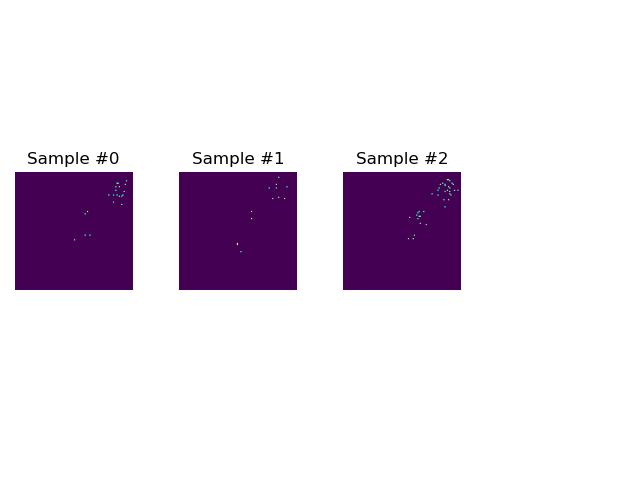
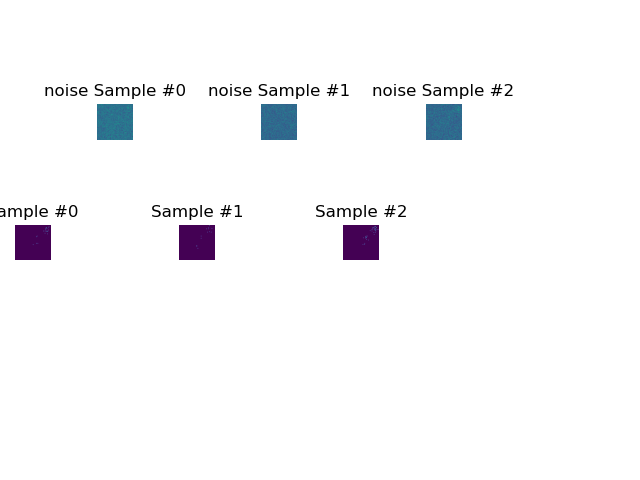
using filter

Changed region(s): [[0.0, 0.1562, 0.5312, 0.625], [0.5, 0.1562, 0.8125, 0.625]]

diff --git a/dataloader.py b/dataloader.py
@@ -1,4 +1,4 @@
-import os
+import os,sys
 from sklearn.utils import shuffle
 import torch
 from torch.utils.data import Dataset, DataLoader
@@ -15,10 +15,12 @@ for i in range(1,20):
     # the second index has to be 3 to show be some image
 all_data  = np.concatenate(imgs)
 
+print("finish loading")
+
 class HSQC_Dataset(Dataset):
     """Face Landmarks dataset."""
 
-    def __init__(self, all_data, transform=None):
+    def __init__(self, all_data, config=None):
         """
         Args:
             csv_file (string): Path to the csv file with annotations.
@@ -27,63 +29,69 @@ class HSQC_Dataset(Dataset):
                 on a sample.
         """
         self.all_data = all_data
-        self.transform = transform
+        self.config = config
 
     def __len__(self):
         return len(self.all_data)
 
     def __getitem__(self, idx):
-        sample = self.all_data[idx]
+        raw_sample = self.all_data[idx]
+        if self.config:
+            noise_factor = self.config["dataset"]["noise_factor"]
+        else :
+            noise_factor = 0.4
+        noisy_sample = raw_sample + noise_factor * np.random.normal(loc=0.0, scale=1.0, size=raw_sample.shape)
+        noisy_sample = np.clip(noisy_sample, 0., 1.)
 
-        if self.transform!=None:
-            sample = self.transform(sample)
-
-        return sample
+        return raw_sample,noisy_sample
 
 
 def get_datasets(config):
     np.random.shuffle(all_data)
-    first = int((all_data)*0.8)
-    second = int((all_data)*0.9)
+    first = int(len(all_data)*0.8)
+    second = int(len(all_data)*0.9)
 
     train = all_data[:first]
     val = all_data[first:second]
-    test = all[second:]
+    test = all_data[second:]
 
     shuffle=config["dataset"]['shuffle']
     batch = config["dataset"]['batch_size']
-    train_loader = DataLoader(train, batch_size=batch, shuffle=shuffle, num_workers=4*os.cpu_count)
-    val_loader = DataLoader(val, batch_size=batch, shuffle=shuffle, num_workers=4*os.cpu_count)
-    test_loader = DataLoader(test, batch_size=batch, shuffle=shuffle, num_workers=4*os.cpu_count)
+    train_loader = DataLoader(HSQC_Dataset(train,config), batch_size=batch, shuffle=shuffle, num_workers=os.cpu_count())
+    val_loader = DataLoader(HSQC_Dataset(val,config), batch_size=batch, shuffle=shuffle, num_workers=os.cpu_count())
+    test_loader = DataLoader(HSQC_Dataset(test,config), batch_size=batch, shuffle=shuffle, num_workers=os.cpu_count())
 
     return train_loader, val_loader , test_loader
 
 
-dataset = HSQC_Dataset(all_data)
 
-dataloader = DataLoader(dataset, batch_size=4, shuffle=False, num_workers=0)
-
-for i_batch, sample_batched in enumerate(dataloader):
-    if i_batch == 3:
-        break
-    print("batch is",i_batch)
-    print(sample_batched.shape)
 
 
 #### used to show some sample image
+# dataset = HSQC_Dataset(all_data,)
+# dataloader = DataLoader(dataset, batch_size=4, shuffle=False, num_workers=0)
 # fig = plt.figure()
 # for i in range(len(dataset)):
-#     sample = dataset[i]
+#     sample = dataset[i][0]
+#     noise_sample = dataset[i][1]
+#     # print(i, sample.shape)
 
-#     print(i, sample.shape)
-
-#     ax = plt.subplot(1, 4, i + 1)
+#     ax = plt.subplot(1, 4, 2*i + 1)
 #     plt.tight_layout()
 #     ax.set_title('Sample #{}'.format(i))
 #     ax.axis('off')
 #     plt.imshow(sample)
+
+#     ax = plt.subplot(1, 4, 2*i +2 )
+#     plt.tight_layout()
+#     ax.set_title('noise Sample #{}'.format(i))
+#     ax.axis('off')
+#     plt.imshow(noise_sample)
 #     plt.savefig("useless/{}.png".format(str(i)))
 
-#     if i == 3:
+#     if i == 1:
 #         plt.show()
 #         break
+
+# np.set_printoptions(threshold=sys.maxsize)
+# print(dataset[i][1])

diff --git a/experiment.py b/experiment.py
@@ -1,40 +1,52 @@
 import json
 import os
 from dataloader import get_datasets
+from model_factory import get_model
+from weakref import ref
+import matplotlib.pyplot as plt
+import numpy as np
+import torch, copy
+from tqdm import tqdm
+from datetime import datetime
+import shutil
 
 ROOT_STATS_DIR = "./experiment_data"
 class Experiment(object):
     def __init__(self, name):
-        f = open('./hyperparameters/', name + '.json')
-        config_data = data = json.load(f)
-        
-        if config_data is None:
+        f = open('./hyperparameters/'+ name + '.json')
+        config = data = json.load(f)
+        self.config = config
+
+        if config is None:
             raise Exception("Configuration file doesn't exist: ", name)
 
         self.name=name
-        self.__name = config_data['experiment_name']
+        self.__name = config['experiment_name']
         self.__experiment_dir = os.path.join(ROOT_STATS_DIR, self.__name)
 
         # Load Datasets
-        self.__train_loader, self.__val_loader, self.__test_loader = get_datasets(config_data)
+        self.__train_loader, self.__val_loader, self.__test_loader = get_datasets(config)
 
         # Setup Experiment
-        self.__epochs = config_data['experiment']['num_epochs']
+        self.__epochs = config['experiment']['num_epochs']
         self.__current_epoch = 0
         self.__training_losses = []
         self.__val_losses = []
         self.__min_val_loss = 999999
         self.__best_model = None  # Save your best model in this field and use this in test method.
-        self.__learning_rate = config_data['experiment']['learning_rate']
+        self.__learning_rate = config['experiment']['learning_rate']
+
         # Init Model
-        self.__model = get_model(config_data, self.__vocab)
+        self.__model = get_model(config)
+        if config['model']['model_type'] == 'filter':
+            return None
         self.best_epoch = 0
         try:
-            lr_step = config_data["experiment"]["lr_scheduler_step"]
+            lr_step = config["experiment"]["lr_scheduler_step"]
         except:
             pass
         try: 
-            self.lr_scheduler_type = config_data["experiment"]["lr_scheduler_type"]
+            self.lr_scheduler_type = config["experiment"]["lr_scheduler_type"]
             if self.lr_scheduler_type == "step":
                 self.__lr_scheduler = torch.optim.lr_scheduler.StepLR(self.__optimizer, lr_step[0])
             elif self.lr_scheduler_type == "multi_step":
@@ -59,3 +71,31 @@ class Experiment(object):
 
         # Load Experiment Data if available
         self.__load_experiment()
+
+    def run(self):
+        if self.config['model']['model_type'] == 'filter':
+            return
+
+    def test(self):
+        accu = []
+        displayed = False
+        if self.config['model']['model_type'] == 'filter':
+            for iter, data in enumerate(tqdm(self.__test_loader)):
+                raw, noise = data
+                if not displayed:
+                    ax = plt.subplot(1, 4, 1)
+                    plt.tight_layout()
+                    ax.set_title('orig')
+                    ax.axis('off')
+                    plt.imshow(raw[0])
+                    displayed = True
+                perdiction = self.__model(noise)
+                
+                # print (torch.sum(raw))
+                # print (np.sum(np.array(raw) * perdiction ))
+                batch_accu = np.sum(np.array(raw) * perdiction )/(torch.sum(raw))
+                accu.append(batch_accu)
+                print(accu)
+            print(sum(accu) / len(accu))
+            return sum(accu) / len(accu)
+

diff --git a/model_factory.py b/model_factory.py
@@ -1,0 +1,42 @@
+import numpy as np
+import sys
+import matplotlib.pyplot as plt
+from sqlalchemy import true
+
+
+
+def get_model(config):
+    model_type = config['model']['model_type']
+    if model_type == "filter":
+        return Filter()
+
+class Filter():
+    def __init__(self) -> None:
+        self.displayed = False
+
+    def filtering(self,x):
+        if x>=0.9: return 1
+        return 0
+        
+    def forward(self, x):
+        filtered = np.array([[[self.filtering(float(k)) for k in j] for j in i] for i in x])
+
+        if not self.displayed:
+            ax = plt.subplot(1, 4, 2)
+            plt.tight_layout()
+            ax.set_title('noise')
+            ax.axis('off')
+            plt.imshow(x[0])
+
+            ax = plt.subplot(1, 4, 3)
+            plt.tight_layout()
+            ax.set_title('filtered')
+            ax.axis('off')
+            plt.imshow(filtered[0])
+            plt.savefig("useless/compare.png")
+            self.displayed = True
+        return filtered
+        # return np.array ([self.filtering(xi) for xi in x])
+
+    def __call__(self, x):
+        return self.forward(x)
